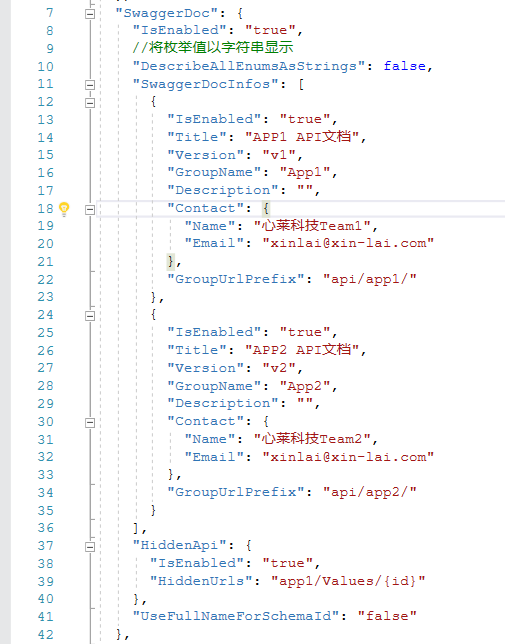
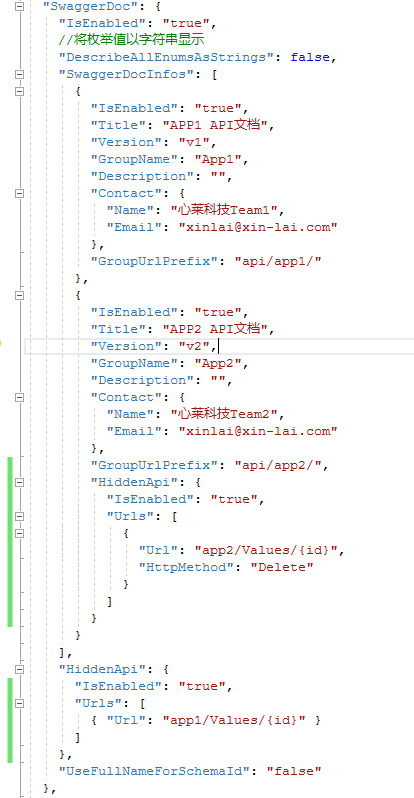
【升级】在全局隐藏API的基础上，支持分组API隐藏 【升级】API隐藏支持HTTP方法配置，默认“*”

diff --git a/src/Magicodes.SwaggerUI/Extentions.cs b/src/Magicodes.SwaggerUI/Extentions.cs
@@ -1,5 +1,6 @@
 using Magicodes.SwaggerUI.Models;
 using Microsoft.AspNetCore.Builder;
+using Microsoft.AspNetCore.Mvc.ApiExplorer;
 using Microsoft.Extensions.Configuration;
 using Microsoft.Extensions.DependencyInjection;
 using Swashbuckle.AspNetCore.Swagger;
@@ -84,16 +85,8 @@ namespace Magicodes.SwaggerUI
                 //接口分组和隐藏处理
                 options.DocInclusionPredicate((docName, apiDescription) =>
                 {
-                    //API隐藏逻辑处理
-                    if (docConfigInfo.HiddenApi != null && docConfigInfo.HiddenApi.IsEnabled && !string.IsNullOrEmpty(docConfigInfo.HiddenApi.HiddenUrls))
-                    {
-                        //获取隐藏的API路径(允许逗号分隔)
-                        var hiddenUrls = docConfigInfo.HiddenApi.HiddenUrls.Split(',').ToArray();
-                        if (hiddenUrls.Any(hiddenUrl => apiDescription.RelativePath.IndexOf(hiddenUrl, StringComparison.OrdinalIgnoreCase) != -1))
-                        {
-                            return false;
-                        }
-                    }
+                    //全局API隐藏逻辑处理
+                    if (IsHiddenApi(docConfigInfo.HiddenApi, apiDescription)) return false;
 
                     //只有一个配置则不分组
                     if (docConfigInfo.SwaggerDocInfos.Count <= 1)
@@ -108,6 +101,9 @@ namespace Magicodes.SwaggerUI
                         return false;
                     }
 
+                    //分组API隐藏逻辑处理
+                    if (IsHiddenApi(doc.HiddenApi, apiDescription)) return false;
+
                     //API分组处理
                     if (!string.IsNullOrEmpty(doc.GroupUrlPrefix))
                     {
@@ -115,16 +111,31 @@ namespace Magicodes.SwaggerUI
                         return apiDescription.RelativePath.StartsWith(doc.GroupUrlPrefix,
                             StringComparison.OrdinalIgnoreCase);
                     }
-
                     return false;
 
                 });
-
-
             });
+        }
 
-
-
+        /// <summary>
+        /// 是否隐藏此API
+        /// </summary>
+        /// <param name="hiddenApiConfigInfo"></param>
+        /// <param name="apiDescription"></param>
+        /// <returns></returns>
+        private static bool IsHiddenApi(HiddenApiConfigInfo hiddenApiConfigInfo, ApiDescription apiDescription)
+        {
+            if (hiddenApiConfigInfo != null && hiddenApiConfigInfo.IsEnabled && hiddenApiConfigInfo.Urls != null && hiddenApiConfigInfo.Urls.Any())
+            {
+                foreach (var item in hiddenApiConfigInfo.Urls)
+                {
+                    if (apiDescription.RelativePath.IndexOf(item.Url?.Trim(), StringComparison.OrdinalIgnoreCase) != -1 && (item.HttpMethod == "*" || apiDescription.HttpMethod.Equals(item.HttpMethod, StringComparison.OrdinalIgnoreCase)))
+                    {
+                        return true;
+                    }
+                }
+            }
+            return false;
         }
 
         /// <summary>

diff --git a/src/Magicodes.SwaggerUI/Models/HiddenApiConfigInfo.cs b/src/Magicodes.SwaggerUI/Models/HiddenApiConfigInfo.cs
@@ -1,0 +1,33 @@
+// ======================================================================
+// 
+//           Copyright (C) 2019-2030 湖南心莱信息科技有限公司
+//           All rights reserved
+// 
+//           filename : HiddenApiConfig.cs
+//           description :
+// 
+//           created by 雪雁 at  -- 
+//           文档官网：https://docs.xin-lai.com
+//           公众号教程：麦扣聊技术
+//           QQ群：85318032（编程交流）
+//           Blog：http://www.cnblogs.com/codelove/
+// 
+// ======================================================================
+
+using System.Collections.Generic;
+
+namespace Magicodes.SwaggerUI.Models
+{
+    /// <summary>
+    /// API隐藏配置
+    /// </summary>
+    public class HiddenApiConfigInfo
+    {
+        public bool IsEnabled { get; set; }
+
+        /// <summary>
+        /// 
+        /// </summary>
+        public List<ApiConfigInfo> Urls { get; set; }
+    }
+}

diff --git a/src/Magicodes.SwaggerUI/Models/ApiConfigInfo.cs b/src/Magicodes.SwaggerUI/Models/ApiConfigInfo.cs
@@ -17,15 +17,18 @@
 namespace Magicodes.SwaggerUI.Models
 {
     /// <summary>
-    /// API隐藏配置
+    /// API配置
     /// </summary>
-    public class HiddenApiConfig
+    public class ApiConfigInfo
     {
-        public bool IsEnabled { get; set; }
+        /// <summary>
+        /// 支持部分路径匹配
+        /// </summary>
+        public string Url { get; set; }
 
         /// <summary>
-        /// 多个隐藏路径配置，使用逗号分隔。允许填写部分路径。
+        /// HTTP方法配置（Get、Post），默认“*” 
         /// </summary>
-        public string HiddenUrls { get; set; }
+        public string HttpMethod { get; set; } = "*";
     }
 }

diff --git a/src/Magicodes.SwaggerUI/Models/SwaggerDocInfo.cs b/src/Magicodes.SwaggerUI/Models/SwaggerDocInfo.cs
@@ -55,5 +55,10 @@ namespace Magicodes.SwaggerUI.Models
         /// 分组Url前缀
         /// </summary>
         public string GroupUrlPrefix { get; set; }
+
+        /// <summary>
+        /// 隐藏API配置
+        /// </summary>
+        public HiddenApiConfigInfo HiddenApi { get; set; }
     }
 }

diff --git a/src/Magicodes.SwaggerUI/Models/SwaggerConfigInfo.cs b/src/Magicodes.SwaggerUI/Models/SwaggerConfigInfo.cs
@@ -33,7 +33,7 @@ namespace Magicodes.SwaggerUI.Models
         /// <summary>
         /// 隐藏API配置
         /// </summary>
-        public HiddenApiConfig HiddenApi { get; set; }
+        public HiddenApiConfigInfo HiddenApi { get; set; }
 
         /// <summary>
         /// 是否启用API全名

diff --git a/README.md b/README.md
@@ -45,11 +45,13 @@
 
 ### 2019.10.21 
 
-- 【Nuget】Magicodes.SwaggerUI  2.0.2
+- 【Nuget】Magicodes.SwaggerUI  2.0.4
 - 【升级】单个文档不分组，显示所有API
 - 【梳理】梳理目录结构
 - 【修复】修复本地开发环境运行时不加载文档注释的问题
 - 【修改】自动移除GroupUrlPrefix的前后空格以及“/”前缀
+- 【升级】在全局隐藏API的基础上，支持分组API隐藏
+- 【升级】API隐藏支持HTTP方法配置，默认“*”
 
 ### 2019.10.19
 - 【升级】支持API分组，支持非侵入式配置，无需修改代码，仅通过配置即可完成API分组（见下面示例）
@@ -85,12 +87,23 @@
           "Name": "心莱科技Team2",
           "Email": "xinlai@xin-lai.com"
         },
-        "GroupUrlPrefix": "api/app2/"
+        "GroupUrlPrefix": "api/app2/",
+        "HiddenApi": {
+          "IsEnabled": "true",
+          "Urls": [
+            {
+              "Url": "app2/Values/{id}",
+              "HttpMethod": "Delete"
+            }
+          ]
+        }
       }
     ],
     "HiddenApi": {
       "IsEnabled": "true",
-      "HiddenUrls": "app1/Values/{id}"
+      "Urls": [
+        { "Url": "app1/Values/{id}" }
+      ]
     },
     "UseFullNameForSchemaId": "false"
   }
